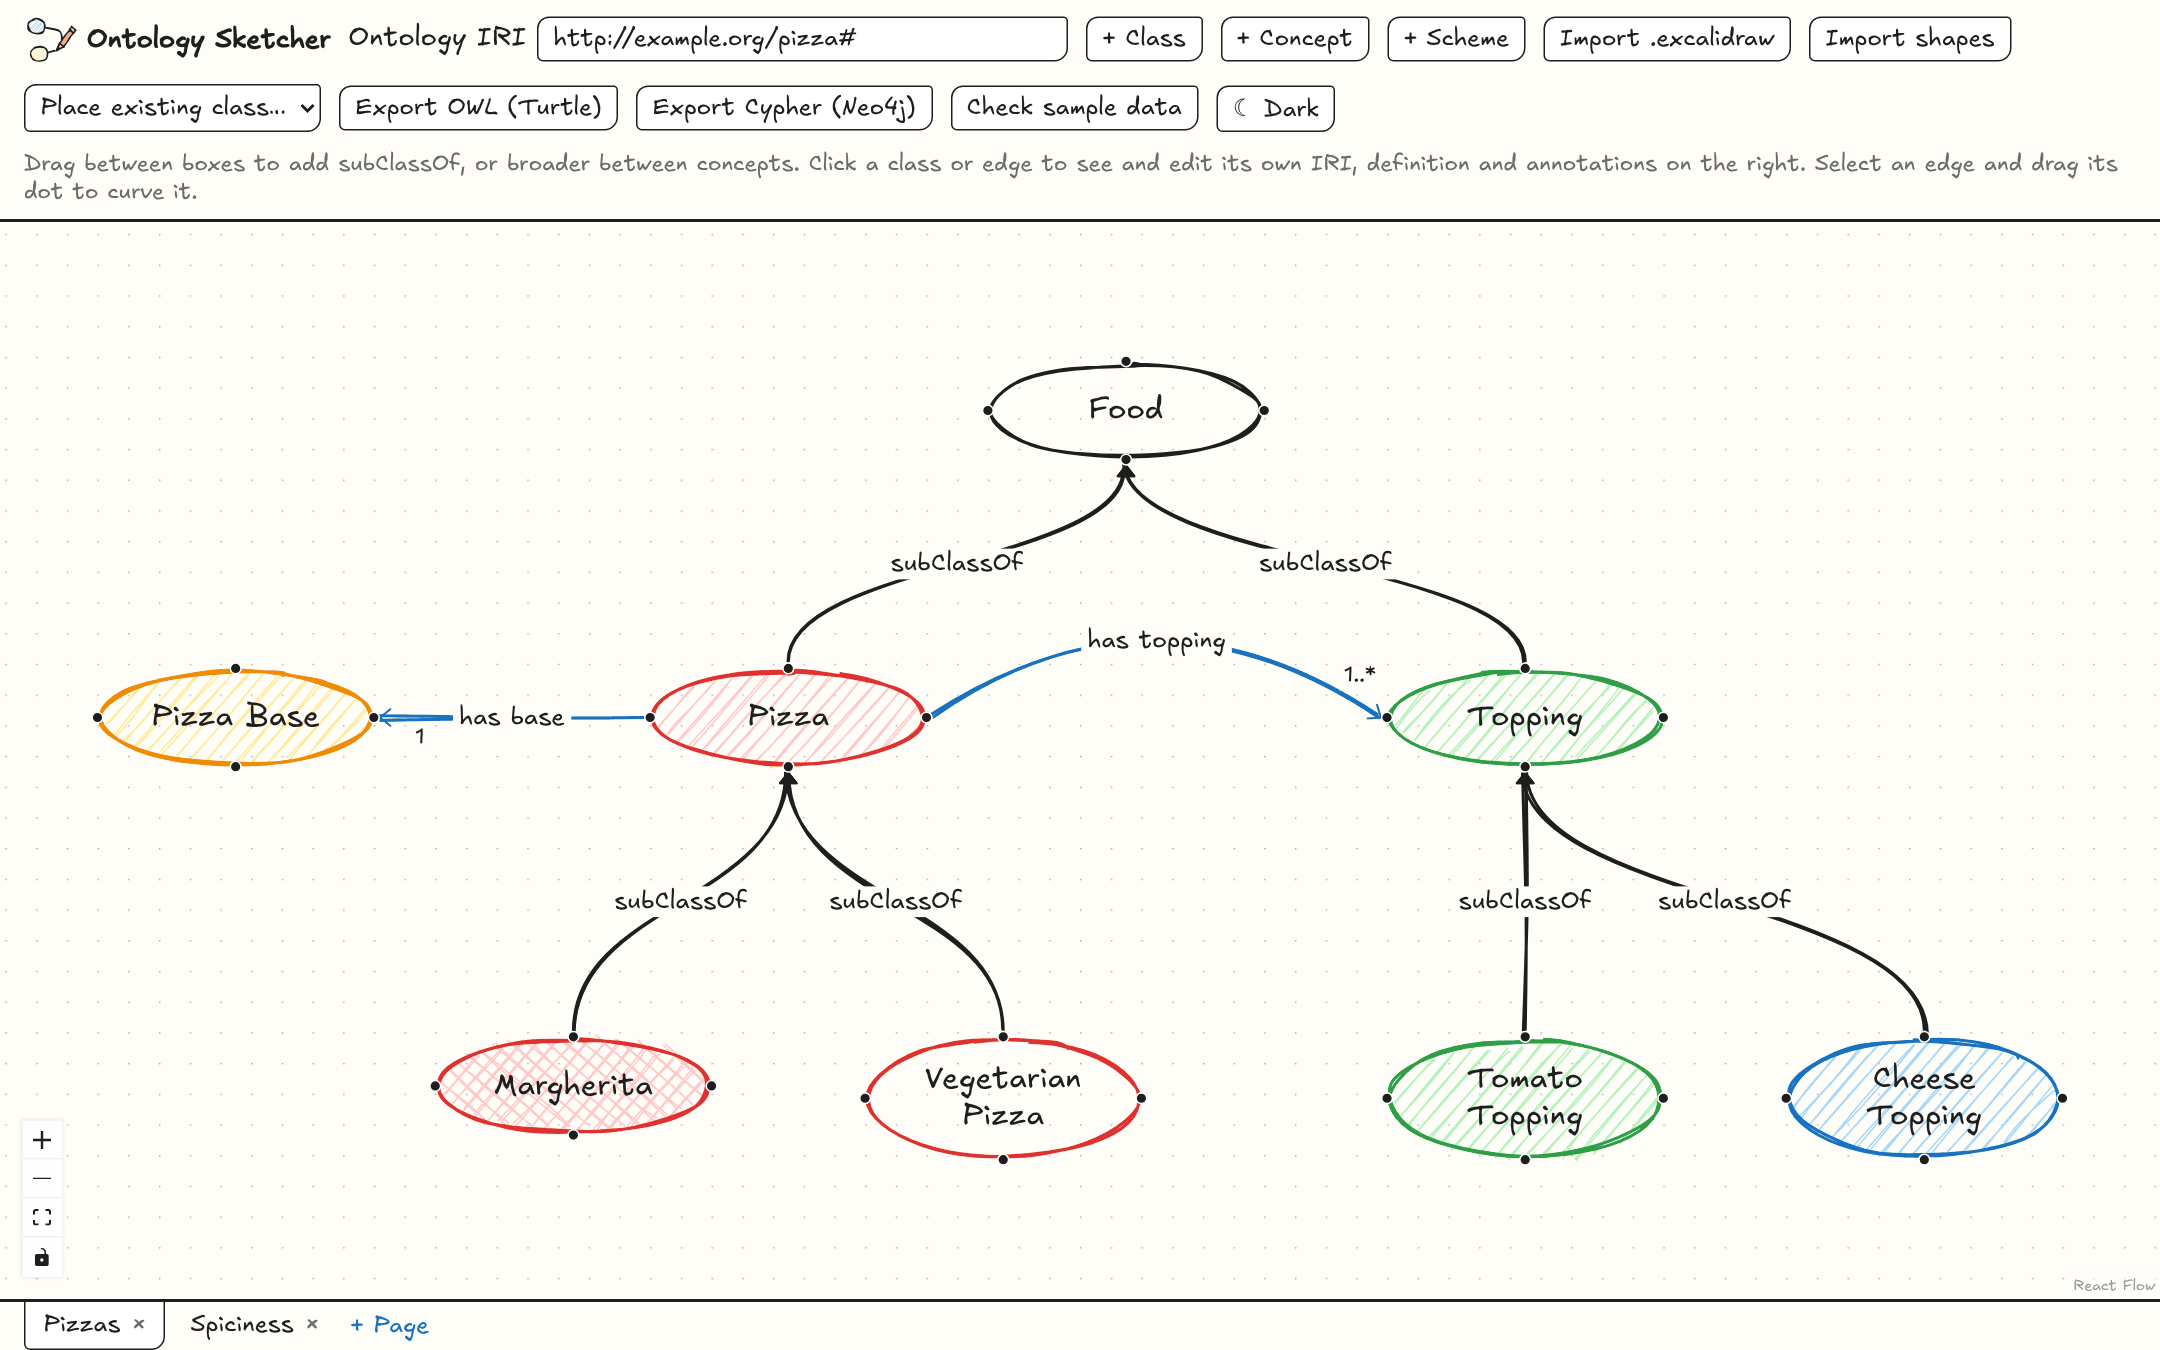
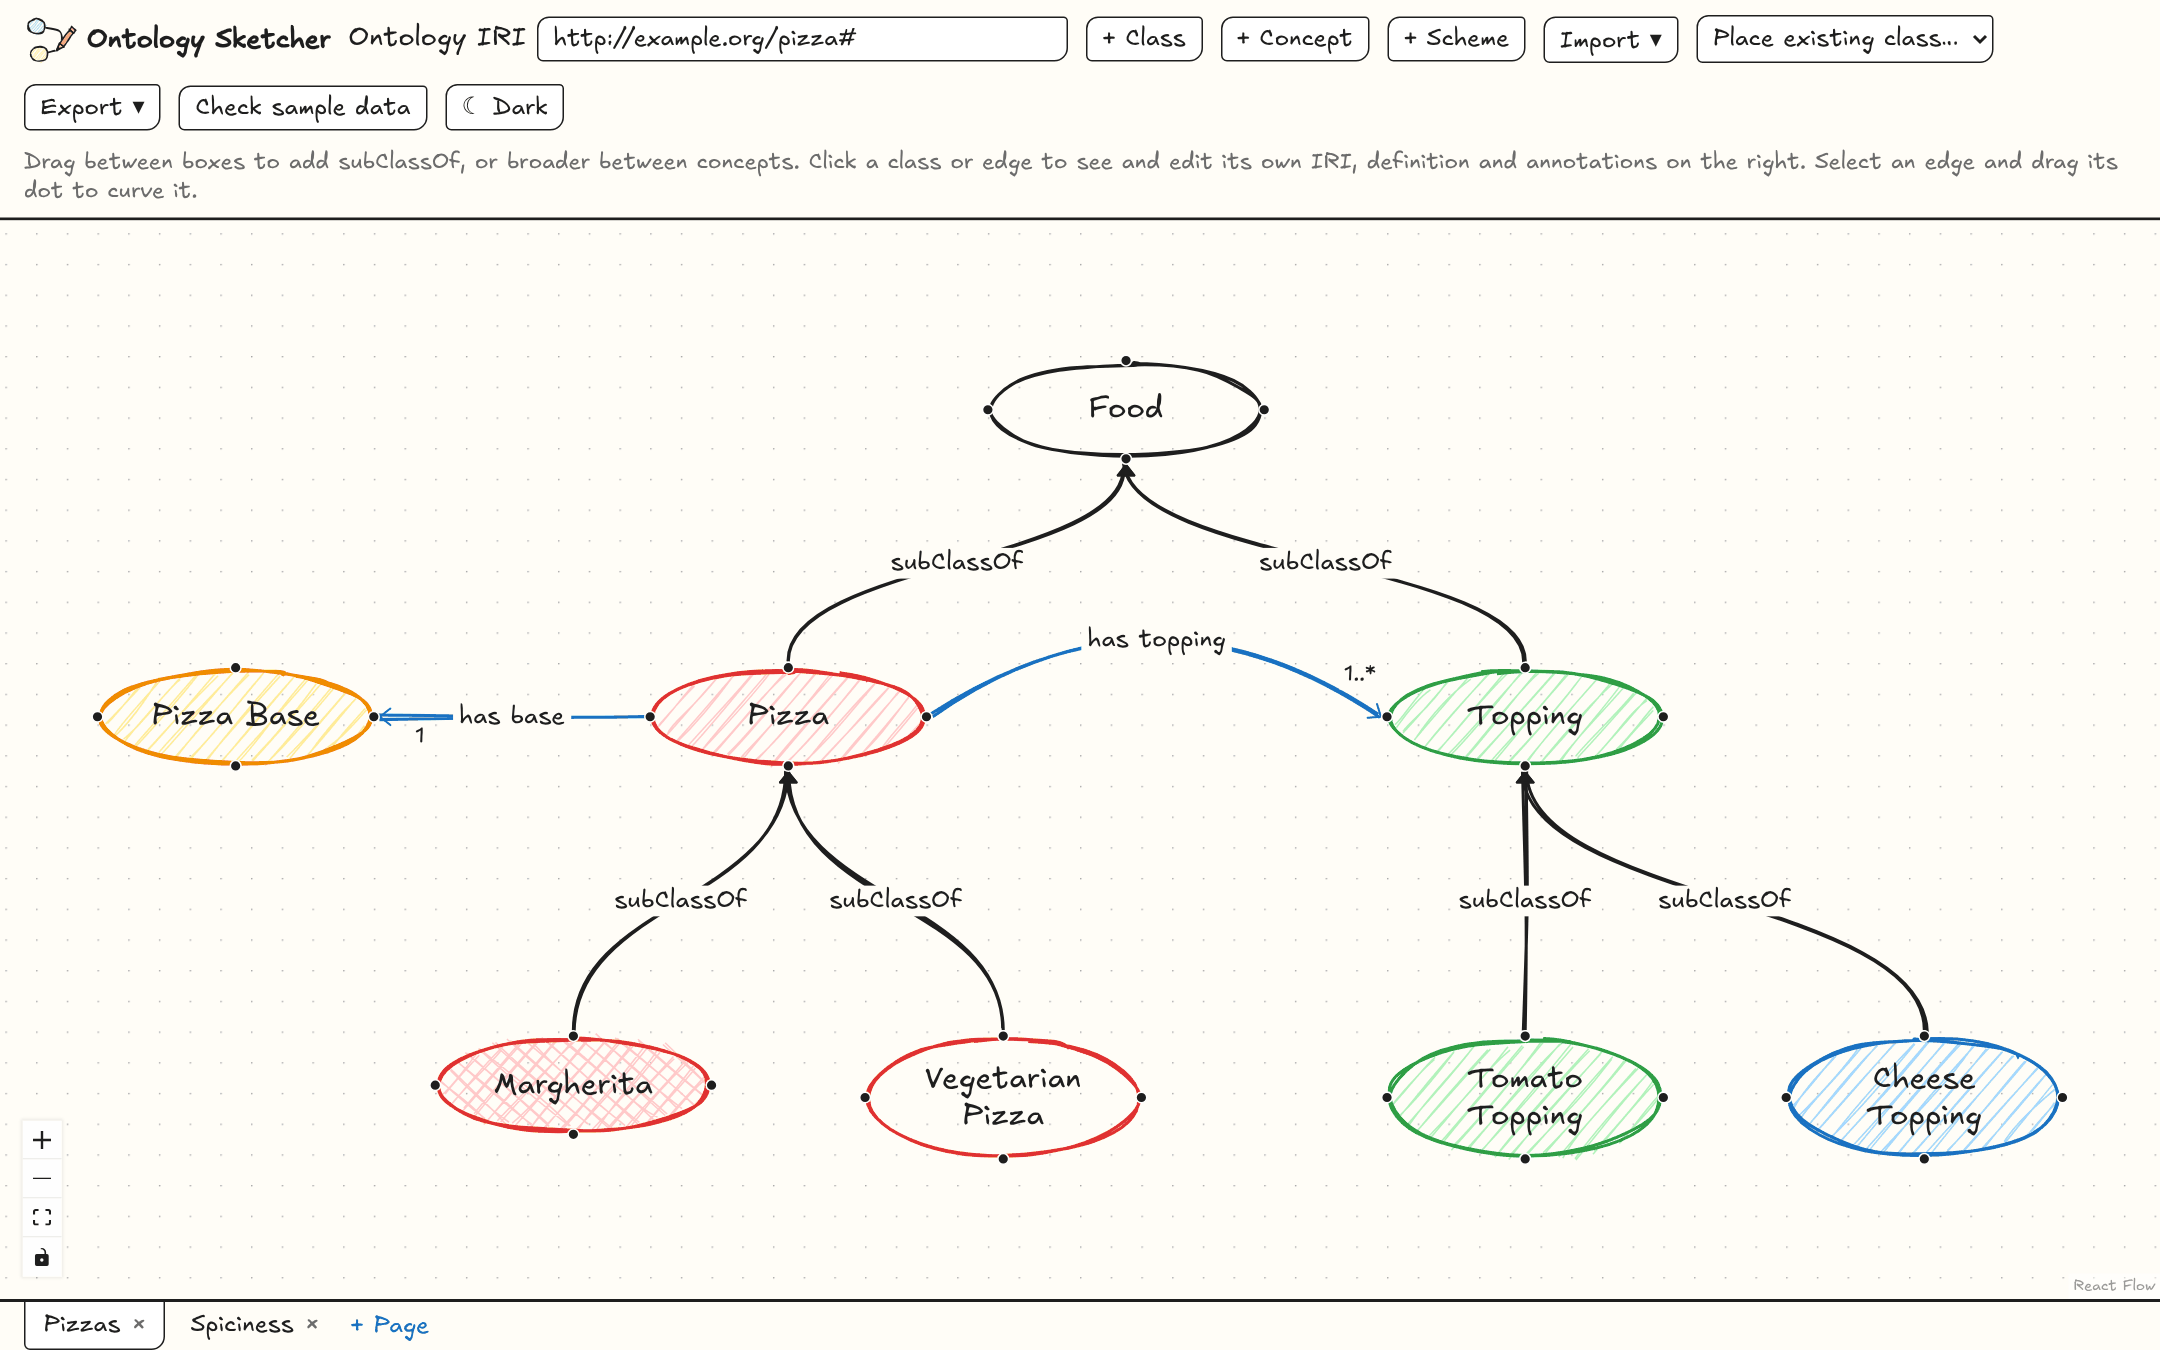
Retake the README screenshots with the Import and Export menus
Also name the shapes import by its new menu entry.

diff --git a/README.md b/README.md
@@ -81,7 +81,7 @@ add axioms and data constraints, check a few example instances, and hand the res
   datatype, with an optional message. They export as a separate `shapes.ttl` with one `sh:NodeShape` per class.
 - **Suggest from ontology** fills in constraints from what the drawing already says: arrow targets, `some`,
   `only`, `min`, `max` and `exactly` restrictions, functional properties and data property datatypes.
-- **Import shapes** reads an existing SHACL shapes file (Turtle) into the constraints of the classes on the page.
+- **Import > SHACL shapes (Turtle)** reads an existing shapes file into the constraints of the classes on the page.
 - Counts show on the arrows UML style, such as `1` or `1..*`, next to the arrowhead.
 - **Check sample data**: paste a few instances in Turtle and the app validates them against the shapes, lists each
   problem in plain words, and outlines the classes whose instances break a rule in red.
